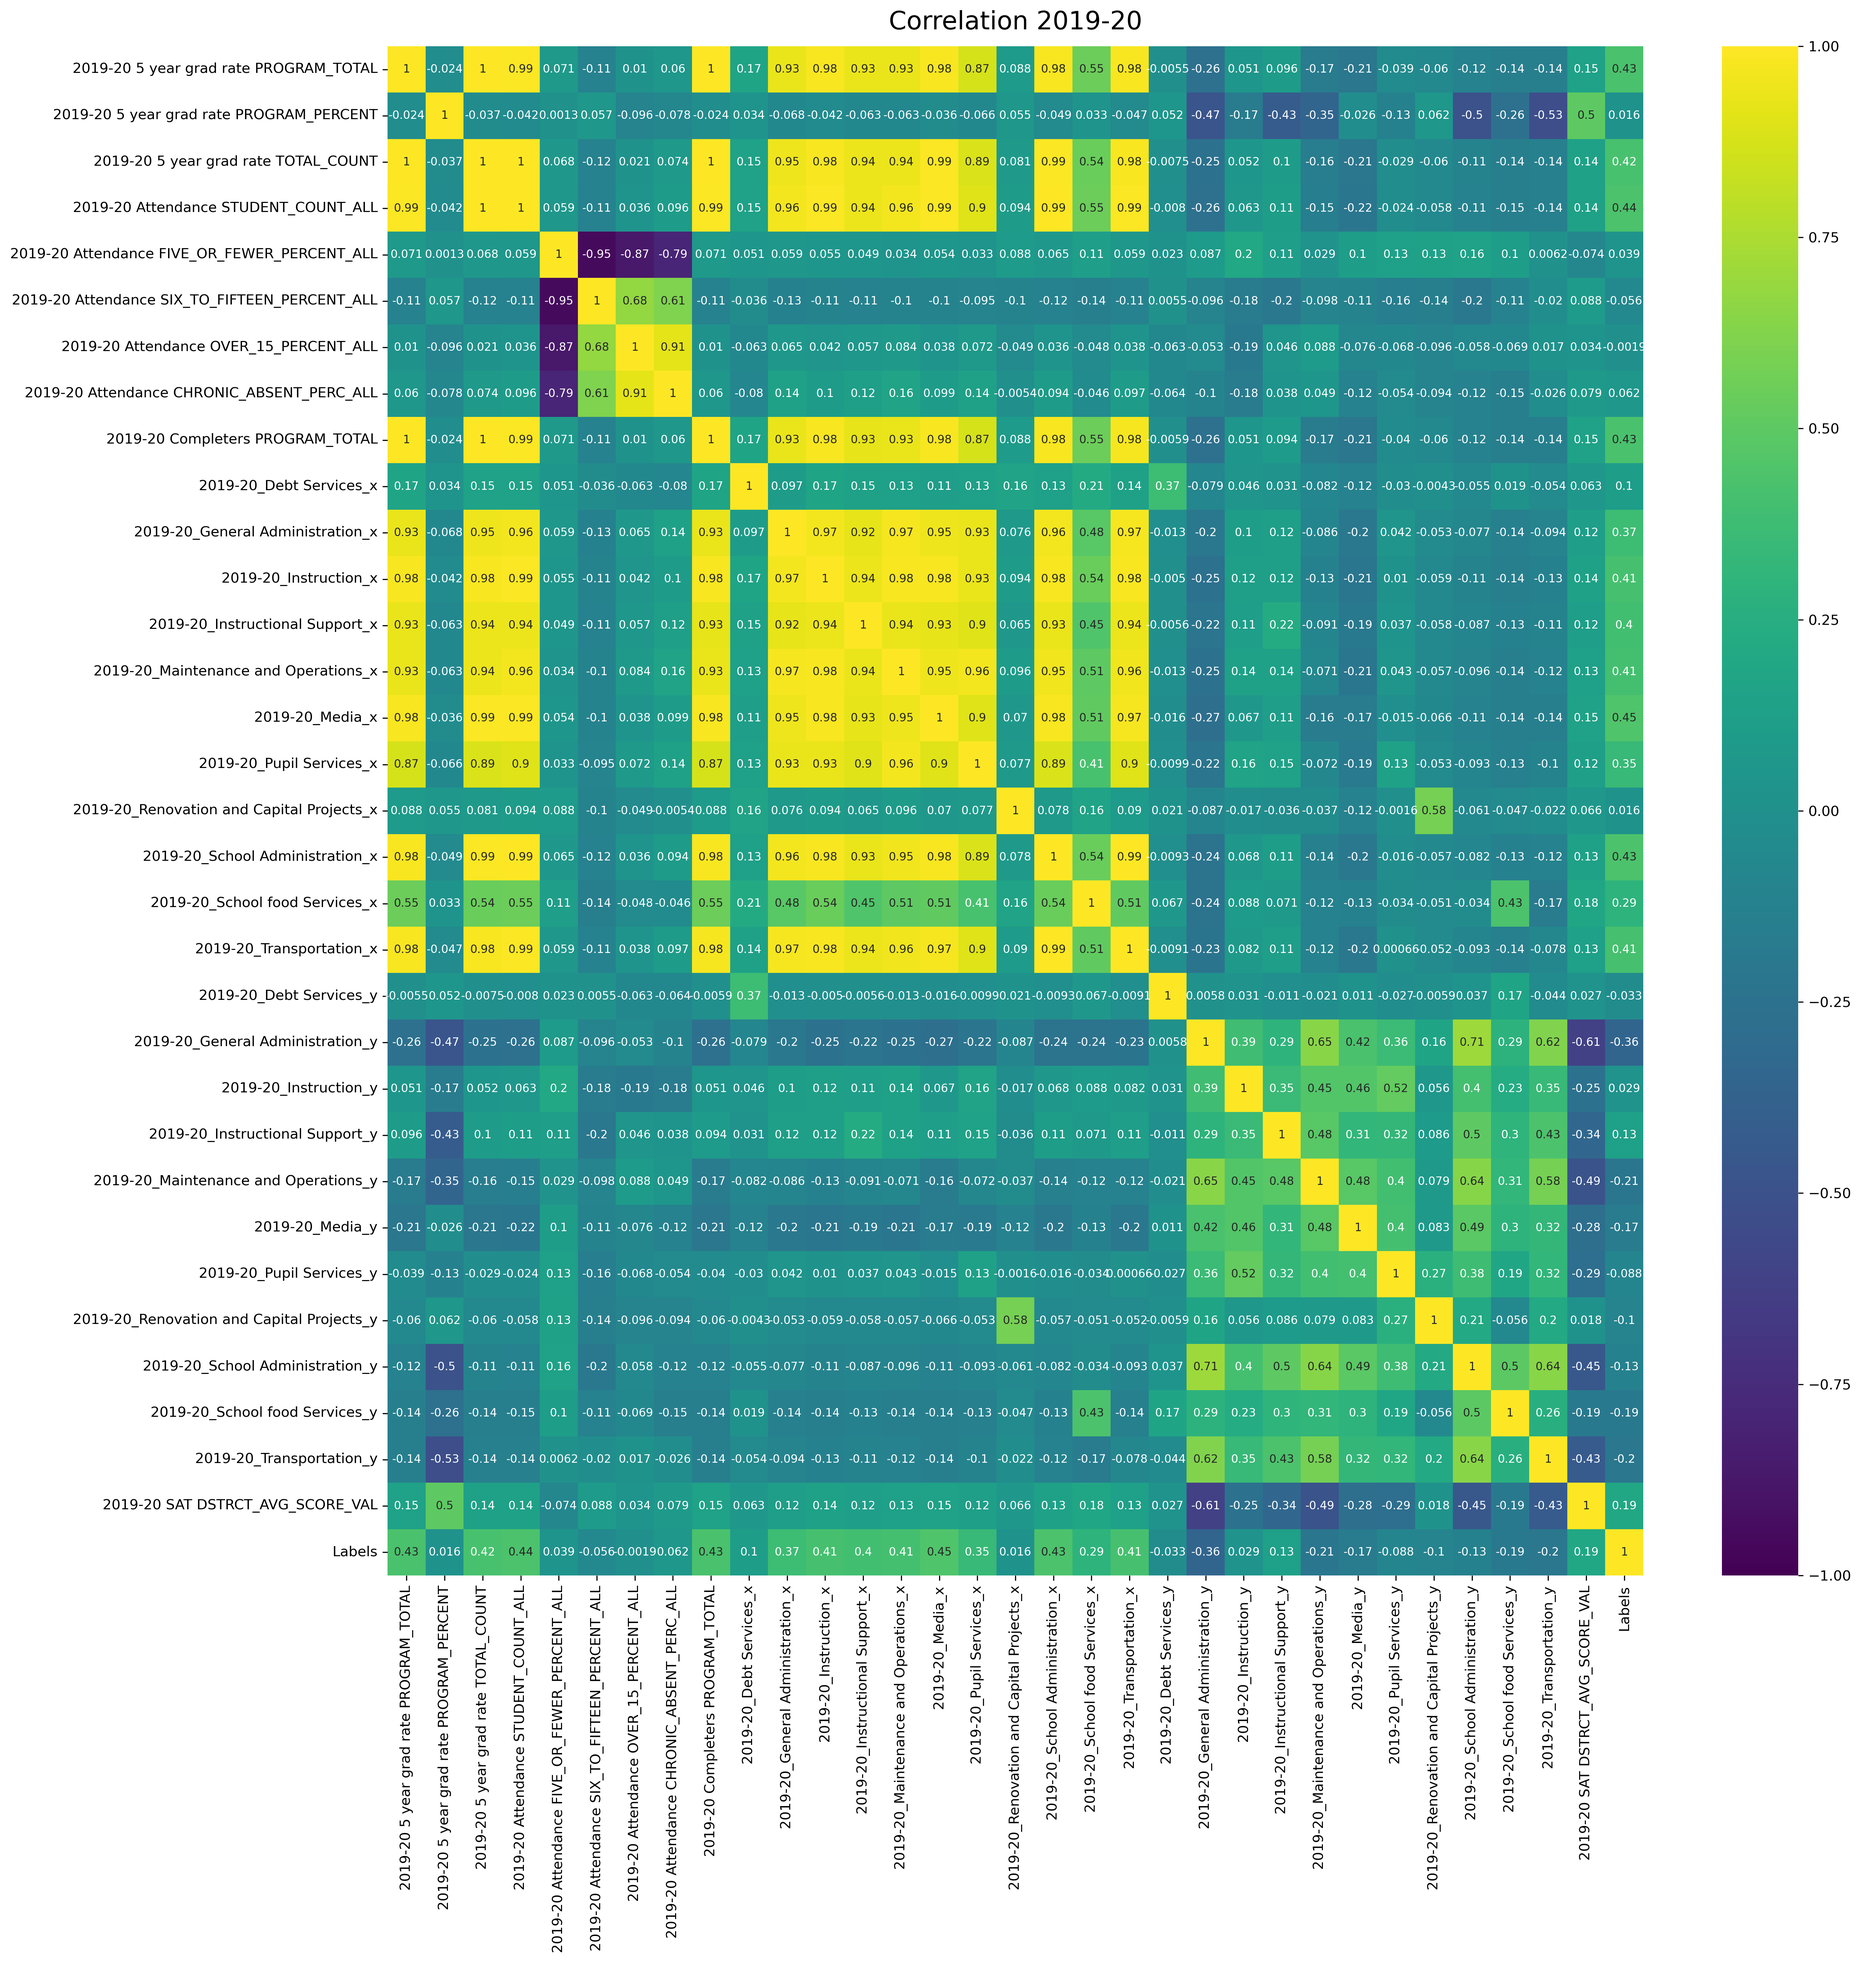
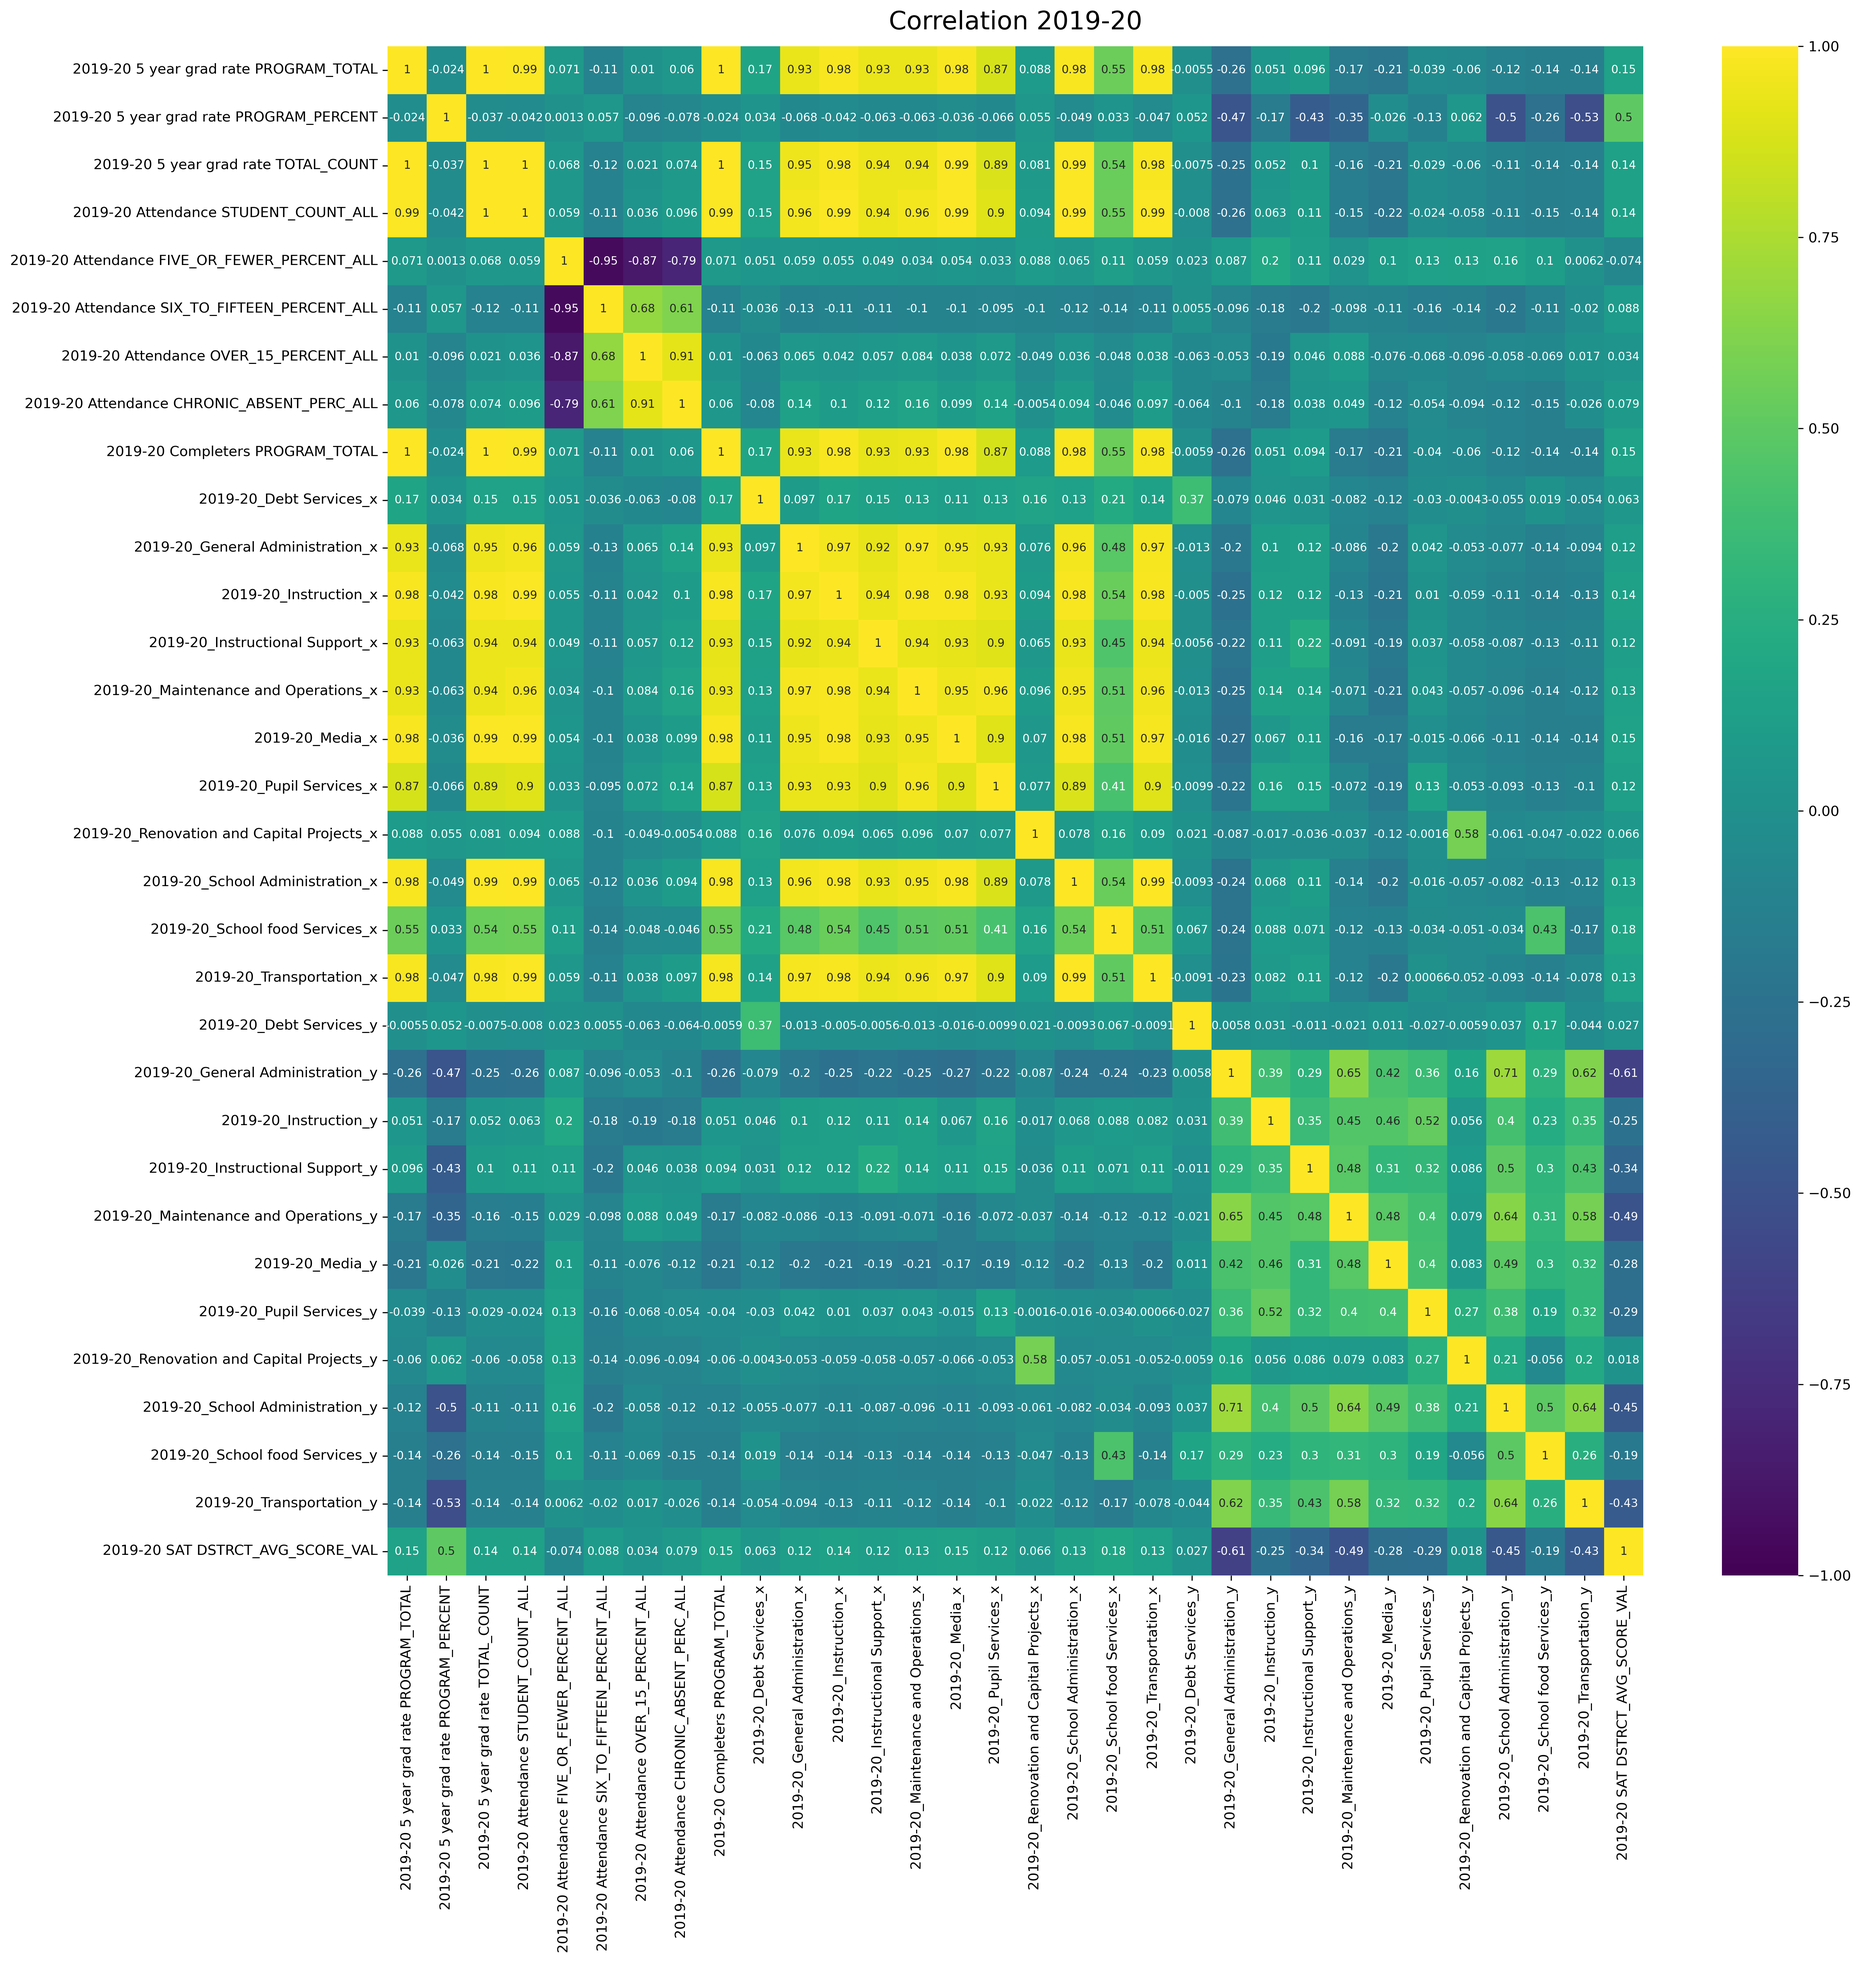
update heatmap

Changed region(s): [[0.0, 0.0, 0.9048, 0.996], [0.0312, 0.0311, 0.1872, 0.0623]]

diff --git a/chloropeth.py b/chloropeth.py
@@ -95,7 +95,7 @@ for dataset in [ '2018-19','2019-20','2020-21']:
     
     
     
-    heatmap = sns.heatmap(df.iloc[:,2:].corr(), vmin=-1, vmax=1, annot=True,annot_kws={'size':8}, cmap='viridis')
+    heatmap = sns.heatmap(df.iloc[:,2:-2].corr(), vmin=-1, vmax=1, annot=True,annot_kws={'size':8}, cmap='viridis')
     
     plt.rcParams['figure.figsize']=(20,20)
     heatmap.set_title('Correlation {}'.format(title_1), fontdict={'fontsize':18}, pad=12)
